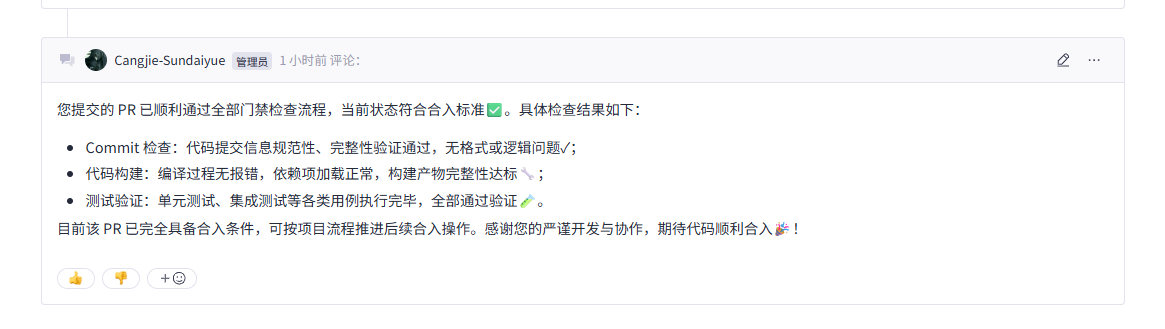
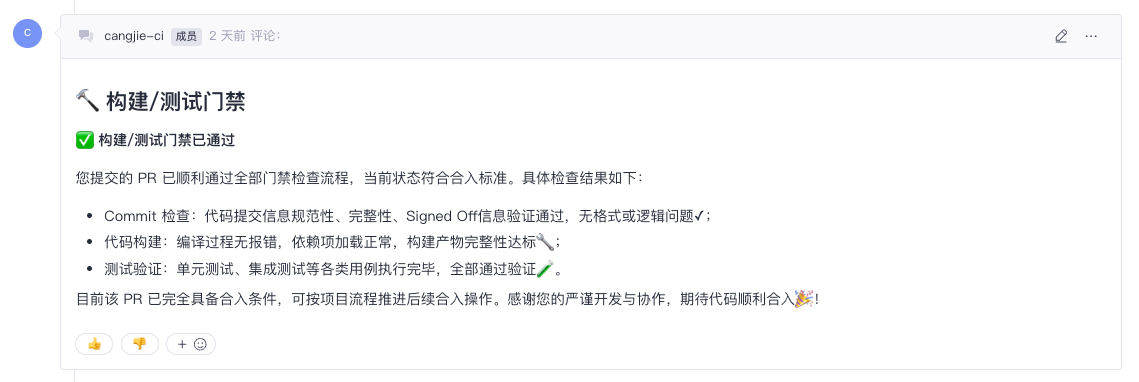
docs: 更新 Cangjie 社区 PR 评论支持命令行清单
按实际 CI 评论命令重写文档，补充 start build、start build cov、start merge、pr-issue-review 及标签说明。

diff --git a/infrastructure/build_command.md b/infrastructure/build_command.md
@@ -1,13 +1,33 @@
-| **命令**            |  **示例**                               | **描述**                                                     | **谁能使用**                                                 |
-| ------------------- |  -------------------------------------- | ------------------------------------------------------------ | ------------------------------------------------------------ |
-| /[remove-]kind      | /kind bug   <br>/remove-kind bug           | 添加或者删除这种kind类型的标签。 例如：`kind/bug`标签。      | 任何人都能在一个Pull Request或者Issue上触发这种命令。        |
-| /lgtm [cancel]      | /lgtm   <br>/lgtm cancel      | 为一个Pull Request添加或者删除`lgtm`标签，这个标签将用于Pull Request合入判断。    | 这个仓库的协作者。Pull Request能使用`/lgtm cancel`命令，但是不能使用`/lgtm`命令。   |
-| /approve [cancel]     | /approve<br>/approve cancel          | 为一个Pull Request添加或者删除`approved`标签，这个标签将用于Pull Request合入判断。 | 这个仓库的协作者。   |
-| /[remove-]priority  | /priority high <br> /remove-priority high | 添加或者删除这种priority类型的标签。 例如：`priority/high`标签。 | 任何人都能在一个Pull Request或者Issue上触发这种命令。        |
-| /[remove-]team       | /team spec  <br> /remove-team spec | 添加或者删除这种team类型的标签。 例如：`team/spec`标签。  | 任何人都能在一个Pull Request或者Issue上触发这种命令。        |
-| /close | /close | 关闭一个Pull Request或者Issue。 | 作者和仓库的协作者能触发这种命令。|
-| /reopen | /reopen | 重新打开一个Issue。 | 作者和仓库的协作者能触发这种命令。|
-| /assign [[@]...]    |  /assign @cangjiepl       | 分配一个Issue给负责人。                                      | 任何人都能在一个Issue上触发这种命令， 但是目标负责人必须是这个组织的一个成员。  如果没有指定目标负责人，这表明这个Issue会分配给自己。 |
-| /unassign [[@]...]  | /unassign @cangjiepl   | 取消分配一个Issue给负责人。                                  | 任何人都能在一个Issue上触发这种命令， 但是目标负责人必须是这个组织的一个成员。  如果没有指定目标负责人，这表明这个Issue会取消分配给自己。 |
-| /check-issue        | /check-issue                           | 检查Pull Request是否关联了Issue，如果未关联Issue，添加needs-issue标签，如果已关联，则删除`needs-issue`标签。 | 任何人都能在一个Pull Request上触发这种命令。                 |
-| /remove-needs-issue | /remove-needs-issue                    | 删除`needs-issue`标签。                                        | 只有仓库成员才能在Pull Request上触发这种命令。               |
+# Cangjie 社区 Pull Request 评论支持命令行清单
+
+本文列出 Cangjie 社区 Pull Request 支持的评论命令及常用标签，适用于 Cangjie 组织下接入 CI 的代码仓。命令需在 PR 会话区评论，联合提交只需在任意一个关联 PR 评论一次。
+
+## 1. 评论命令
+
+| 评论命令 | 是否必选 | 使用场景 | 触发角色 |
+| --- | --- | --- | --- |
+| `start build` | **必选** | 触发构建与测试检查：commitlint、Codecheck、OAT、PR/Issue 合规、Linux/Windows/macOS 构建与 UT/HLT/LLT，以及文档和多语言互操作检查 | PR 创建人 |
+| `start merge` | **必选（合入）** | 检查并合入同一 Issue 关联的全部 PR；任一 PR 不满足条件则全部不合入 | PR 创建人 |
+| `start build cov` | 条件必选 | 关联 `[feature]:` 需求类 Issue 时必选，用于检查增量代码覆盖率；非需求类 PR 可不执行 | PR 创建人 |
+| `pr-issue-review` | 可选 | 复核 PR/Issue 模板遵从度及关联一致性 | PR 创建人 |
+
+**使用说明**
+
+- 命令需单独评论在 PR 会话区，不要发在 Issue 或代码行内评论。
+- 同一 PR 同时只允许一条 CI 任务运行；需要重跑时，等待当前任务结束后重新评论。
+- 代码推送后需重新执行 `start build`；需求类 PR 同时需重新执行 `start build cov`。
+- `start build` 通过后，重复评论会被跳过；需要重新验证时，先推送新提交。
+
+## 2. 标签说明
+
+| 标签 | 含义 | 触发方式 |
+| --- | --- | --- |
+| `waiting-start-build` | 等待触发 CI，或 CI 失败待修改 | PR 创建、代码变更、CI 失败 |
+| `CI-running` | CI 运行中 | 命令触发 CI |
+| `build-test-passed` / `build-test-failed` | 构建测试通过/失败 | `start build` |
+| `codecheck-passed` / `codecheck-failed` | 静态检查通过/失败 | `start build` |
+| `commitlint-passed` / `commitlint-failed` | commit 规范通过/失败 | `start build` |
+| `sign-off-passed` / `sign-off-failed` | Signed-off-by 检查通过/失败 | `start build` |
+| `OAT-passed` / `OAT-failed` | 开源声明检查通过/失败 | `start build` |
+| `cov-test-passed` / `cov-test-failed` | 增量覆盖率检查通过 | `start build cov` |
+| 语义化版本标签（如 `1.2.0-alpha.12`） | 目标分支对应的版本 | PR 创建时按目标分支自动添加 |

diff --git a/contribute/contribution.md b/contribute/contribution.md
@@ -213,32 +213,28 @@
 
 5. **门禁触发**
 
-- **门禁类型判定**：
-    - 由 Issue 关联的 PR 所属代码仓数量决定：
-        - 关联多个代码仓 PR：触发「多仓联合门禁」
-        - 关联单个代码仓 PR：触发「单仓门禁」
-    - 多仓联合门禁：关联同一个 Issue 的 PR 会联合构建，如 cangjie_compiler、cangjie_runtime、cangjie_test 三个仓的三个 PR 关联了同一个 Issue，那么在运行门禁时，它们会进行联合构建和测试。
-    
-- **触发方式**：
-    - 在任意关联 PR 的评论区回复指令：
-        - 回复 "**start build**"：执行 Cangjie 的主要基础检查，包含 commit 格式检查、静态告警分析、多平台构建、测试等（推荐）
-        - （内测中）回复 "**start full build**"：启动更全面的检查，耗时更长
-    
-      <img src="image/start_build.png" alt="start_build" style="zoom:75%;" />
-    
+- **门禁类型**：根据同一 Issue 关联的 PR 所属代码仓数量确定。
+    - **多仓联合门禁**：关联多个代码仓的 PR 时触发，所有 PR 会联合构建和测试。例如 `cangjie_compiler`、`cangjie_runtime`、`cangjie_test` 三个仓的 PR 关联同一 Issue 后，门禁会同时覆盖这三个 PR。
+    - **单仓门禁**：仅关联一个代码仓的 PR 时触发。
+
+- **触发方式**：在任意一个关联 PR 的评论区回复 `start build`，即可触发 Cangjie 的主要基础检查，包括 commit 格式检查、静态告警分析、多平台构建和测试等。
+
+  <img src="image/start_build.png" alt="start_build" style="zoom:75%;" />
+
 - **触发规则**：
-    - 关联同一 issue 的多个 PR，仅需在任意一个 PR 里回复触发一次门禁，该 PR 门禁通过后，所有 PR 都会添加 Label 和测试人。
-    - 每个 PR 只能同时运行一条 CI 流水线，如需重新启动，请先关闭运行中的，再评论触发门禁。
-    - 创建 PR、更新代码、重新打开 PR，系统**不会**自动触发门禁，需要重新回复触发 CI 门禁。
-    - Markdown 修改仅触发文档类构建测试门禁，不会触发 Cangjie 的编译测试门禁。
-    
-      <img src="image/sync_build.png" alt="sync_build" style="zoom:75%;" />
-    
-- **门禁检查内容**：
-    - Commit 格式检查（需遵循 Conventional Commits 规范）
-    - 静态告警分析（Codecheck）
-    - Linux/Windows/Mac 平台的构建和 HLT、LLT 测试
-    - 请保证每一条 commit 都已添加 Signed-Off-By 信息
+    - 同一 Issue 关联多个 PR 时，只需在任意一个 PR 评论一次；门禁通过后，所有关联 PR 会同步添加相应标签并指派测试人。
+    - 每个 PR 同一时间只能运行一条 CI 流水线。需要重跑时，请等待当前任务结束，或先在流水线中停止运行中的任务，再重新评论触发。
+    - 创建 PR、更新代码或重新打开 PR 均**不会**自动触发门禁，需要重新评论 `start build`。
+    - 仅修改 Markdown 文件时，只触发文档类构建检查，不触发编译和测试门禁。
+
+  <img src="image/sync_build.png" alt="sync_build" style="zoom:75%;" />
+
+- **检查内容**：
+    - Commit 格式检查（需遵循 Conventional Commits 规范），且每条 commit 均包含 `Signed-off-by` 信息。
+    - 静态告警分析（Codecheck）与开源声明合规检查（OAT）。
+    - PR 与关联 Issue 的合规检查。
+    - Linux、Windows、macOS 平台的构建及 HLT、LLT 测试。
+    - 文档构建与多语言互操作检查。
 
 6. **PR检视**
 
